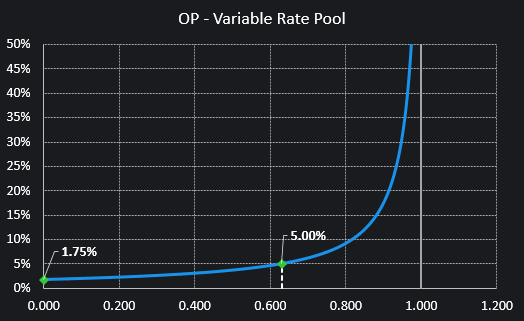
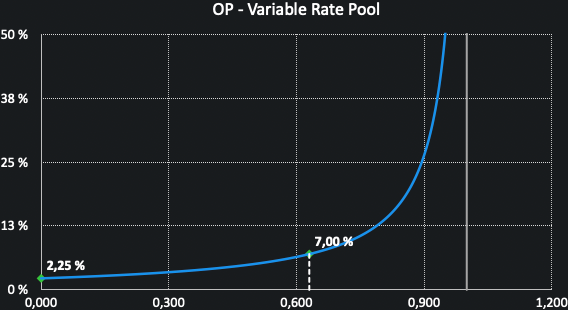
GITBOOK-290: New curves

Changed region(s): [[0.0, 0.0, 1.0, 1.0]]

diff --git a/guides/interest-rates-curves.md b/guides/interest-rates-curves.md
@@ -6,33 +6,33 @@ You can read more about our Interest Rate Model in our [White Paper](https://doc
 
 ## WETH
 
-<figure><img src="../.gitbook/assets/WETH VRP 2023-03-02.png" alt=""><figcaption></figcaption></figure>
+<figure><img src="../.gitbook/assets/WETH VRP (1).png" alt=""><figcaption></figcaption></figure>
 
-<figure><img src="../.gitbook/assets/WETH FRP 2023-03-02.png" alt=""><figcaption></figcaption></figure>
+<figure><img src="../.gitbook/assets/WETH FRP.png" alt=""><figcaption></figcaption></figure>
 
 ## DAI
 
-<figure><img src="../.gitbook/assets/DAI VRP 2023-03-02.png" alt=""><figcaption></figcaption></figure>
+<figure><img src="../.gitbook/assets/DAI VRP.png" alt=""><figcaption></figcaption></figure>
 
-<figure><img src="../.gitbook/assets/DAI FRP 2023-03-02.png" alt=""><figcaption></figcaption></figure>
+<figure><img src="../.gitbook/assets/DAI FRP.png" alt=""><figcaption></figcaption></figure>
 
 ## USDC
 
-<figure><img src="../.gitbook/assets/USDC VRP 2023-03-02.png" alt=""><figcaption></figcaption></figure>
+<figure><img src="../.gitbook/assets/USDC VRP.png" alt=""><figcaption></figcaption></figure>
 
-<figure><img src="../.gitbook/assets/USDC FRP 2023-03-02.png" alt=""><figcaption></figcaption></figure>
+<figure><img src="../.gitbook/assets/USDC FRP (3).png" alt=""><figcaption></figcaption></figure>
 
 ## WBTC
 
-<figure><img src="../.gitbook/assets/WBTC VRP 2023-03-02.png" alt=""><figcaption></figcaption></figure>
+<figure><img src="../.gitbook/assets/WBTC VRP.png" alt=""><figcaption></figcaption></figure>
 
-<figure><img src="../.gitbook/assets/WBTC FRP 2023-03-02.png" alt=""><figcaption></figcaption></figure>
+<figure><img src="../.gitbook/assets/WBTC FRP (1).png" alt=""><figcaption></figcaption></figure>
 
 ## wstETH
 
-<figure><img src="../.gitbook/assets/wstETH VRP v2.png" alt=""><figcaption></figcaption></figure>
+<figure><img src="../.gitbook/assets/WstETH VRP.png" alt=""><figcaption></figcaption></figure>
 
-<figure><img src="../.gitbook/assets/wstETH FRP 2023-03-02.png" alt=""><figcaption></figcaption></figure>
+<figure><img src="../.gitbook/assets/WstETH FRP (1).png" alt=""><figcaption></figcaption></figure>
 
 ## OP
 
